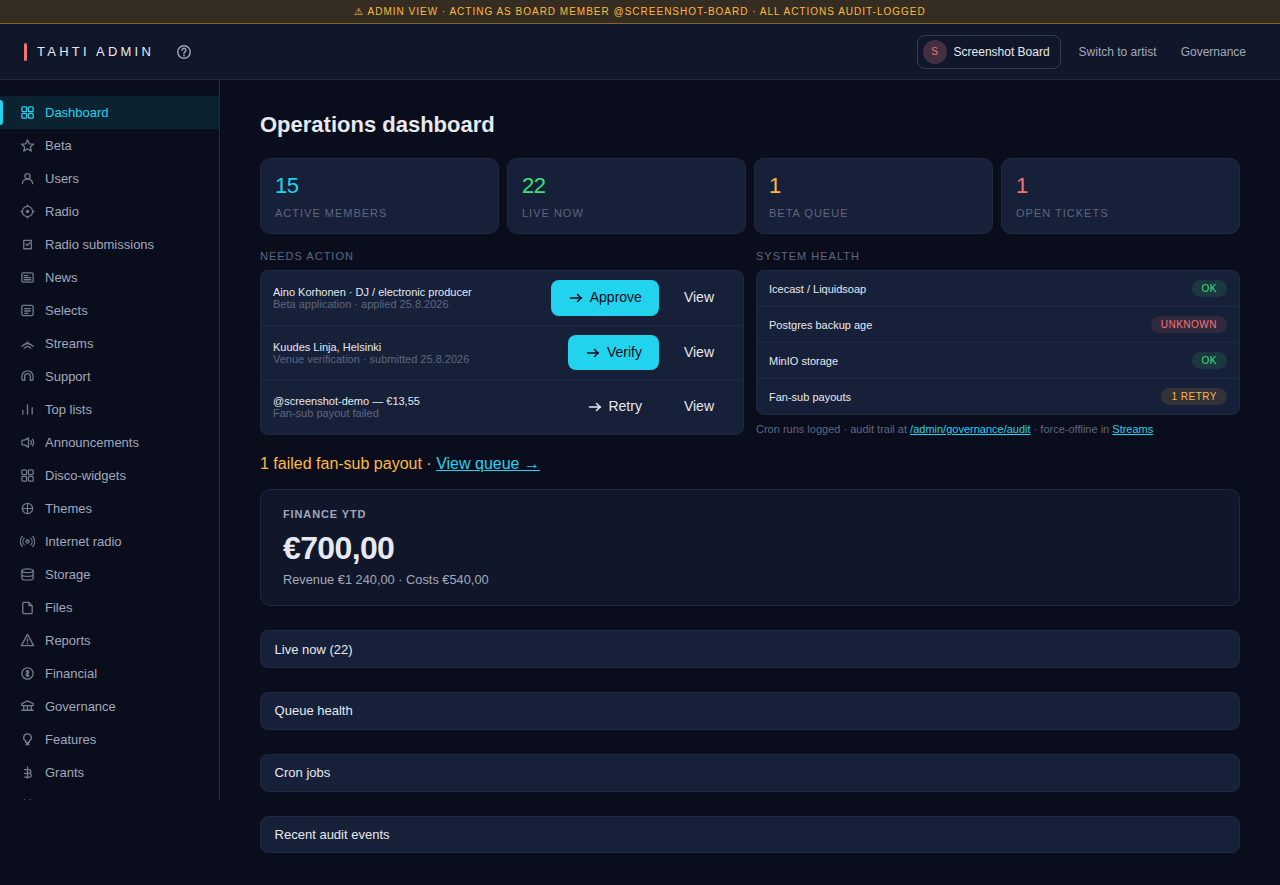
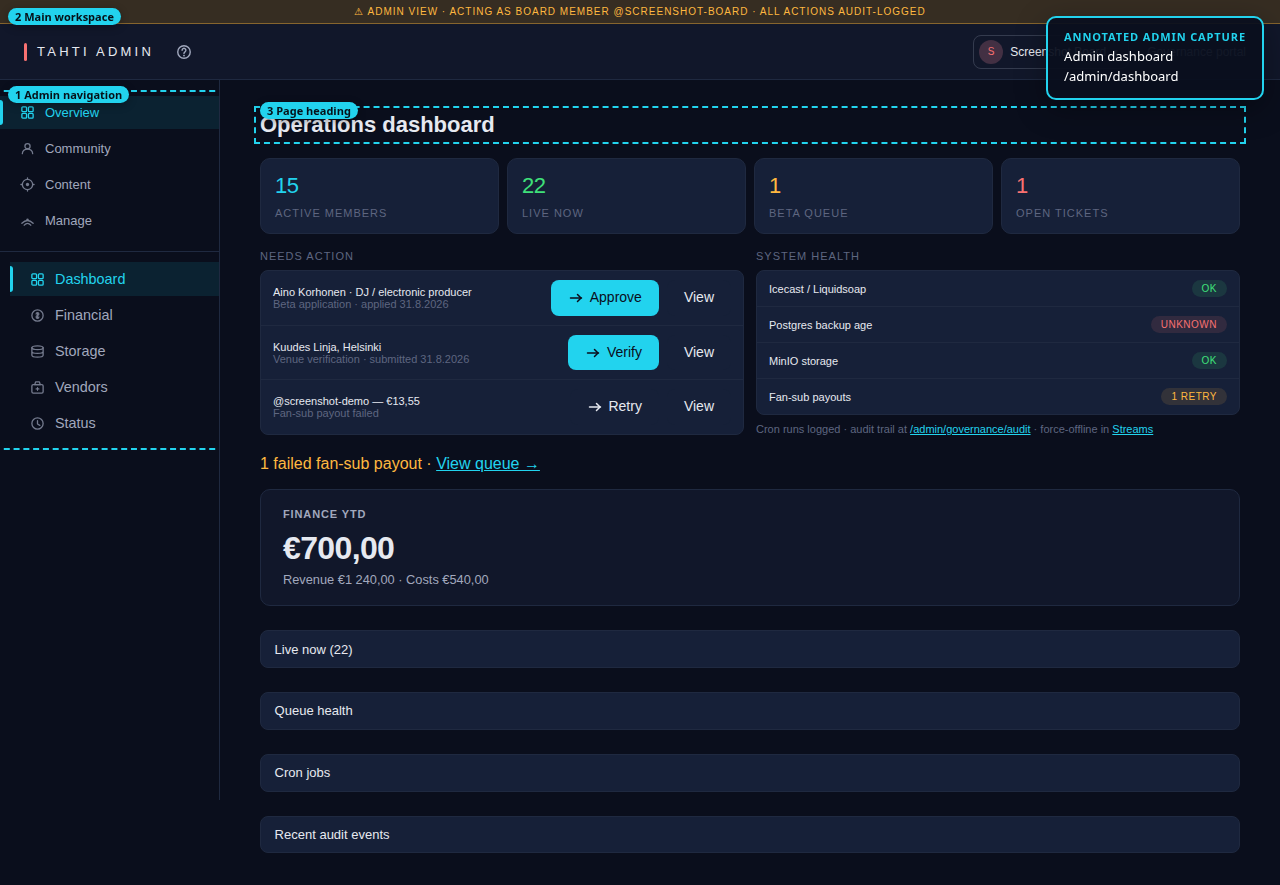
Refresh annotated admin screenshots

diff --git a/README.md b/README.md
@@ -76,6 +76,17 @@ Captured against the seeded Docker stack (real fixture data, not empty states) v
 | ![Governance](docs/e2e-screenshots/artist/governance.png)                                     | ![Transparency dashboard](docs/e2e-screenshots/public/transparency.png)       |
 | **Governance** (`/governance`) - motions, voting, topics, run from the member's own dashboard | **Transparency** (`/transparency`) - the public ledger every member can audit |
 
+The current board-admin surface is also captured with review annotations. The cyan
+labels identify the admin navigation, main workspace, and page heading; the dark
+callout records the exact route.
+
+|                                                                                         |                                                                                         |
+| --------------------------------------------------------------------------------------- | --------------------------------------------------------------------------------------- |
+| ![Annotated admin AGM](docs/e2e-screenshots/admin/agm.png)                              | ![Annotated admin governance](docs/e2e-screenshots/admin/governance.png)               |
+| **AGM admin** (`/admin/agm`) - agenda builder, governance records, motions and minutes | **Governance admin** (`/admin/governance`) - board governance operations and records   |
+| ![Annotated admin dashboard](docs/e2e-screenshots/admin/dashboard.png)                 | ![Annotated admin financial ledger](docs/e2e-screenshots/admin/financial-ledger.png)   |
+| **Admin dashboard** (`/admin/dashboard`) - operational overview                        | **Financial ledger** (`/admin/financial/ledger`) - immutable financial records           |
+
 More surfaces (listener, free/member/artist/admin roles, ~90 pages total) are captured under [`docs/e2e-screenshots/`](docs/e2e-screenshots/) - see that folder's `README.md` for the full manifest and how to regenerate them.
 
 ## Package structure

diff --git a/docs/e2e-screenshots/README.md b/docs/e2e-screenshots/README.md
@@ -18,7 +18,9 @@ Screenshots are grouped by role:
 | `journey/` | Fresh artist + admin | Empty account → channel → releases (Playwright journey) |
 
 See `manifest.json` for the full route → file mapping (public / free / member / artist /
-admin / journey). Known remaining gaps (routes needing seed data or dynamic-ID lookups
+admin / journey). The 20 current board-admin captures are annotated with the role,
+route, admin navigation, main workspace, and page heading so they can be reviewed
+without opening the app. Known remaining gaps (routes needing seed data or dynamic-ID lookups
 the capture script doesn't do yet): `/dashboard/moderate/[slug]`, `/v/[slug]`,
 `/admin/users/[id]`, `/admin/support/[id]`, `/dashboard/upload/[uploadId]` and its
 import sub-flows.
@@ -28,8 +30,24 @@ import sub-flows.
 After meaningful **UI** changes on public, dashboard, governance, or admin surfaces:
 
 1. Run the capture flow below on a machine with Docker.
-2. Commit changed PNGs under `docs/e2e-screenshots/` and `manifest.json` if routes changed.
-3. Do **not** touch `website/screenshots/` unless the user asks.
+2. For annotated board-admin captures, use the admin-only command below.
+3. Commit changed PNGs under `docs/e2e-screenshots/` and `manifest.json` if routes changed.
+4. Do **not** touch `website/screenshots/` unless the user asks.
+
+### Annotated admin capture
+
+This regenerates every manifest-defined admin page as the seeded board account and
+keeps the rest of the persona captures untouched:
+
+```bash
+./scripts/stack-up.sh --seed
+SCREENSHOT_ROLES=admin ANNOTATE_ADMIN_SCREENSHOTS=1 \
+  APP_URL=http://localhost:17777 API_URL=http://localhost:15011 \
+  node scripts/capture-e2e-screenshots.mjs
+```
+
+`ANNOTATE_ADMIN_SCREENSHOTS=1` changes only the temporary Playwright page before
+capture; it does not add annotation UI to the product.
 
 ## Reproduce (local only — not CI)
 
